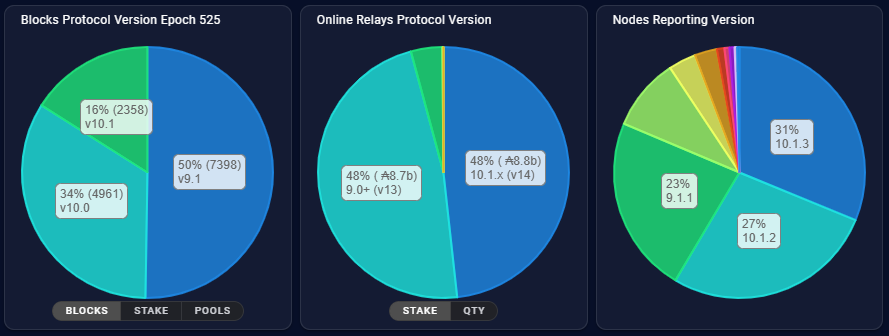
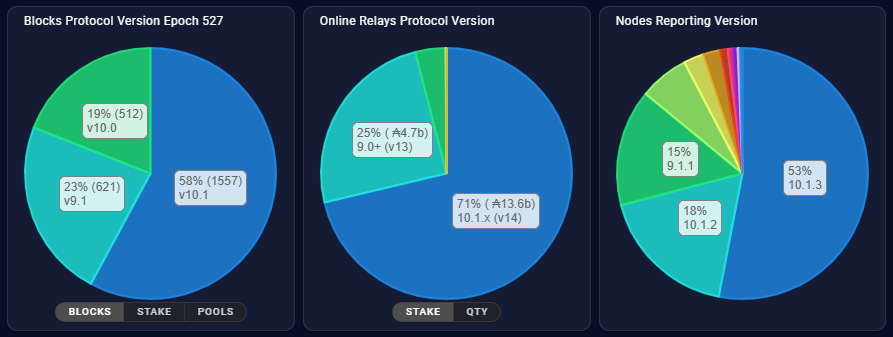
GITBOOK-128: Exchange % Readiness

diff --git a/gitbook/plomin-upgrade/chang-upgrade-2-readiness/README.md b/gitbook/plomin-upgrade/chang-upgrade-2-readiness/README.md
@@ -117,7 +117,7 @@ ICC vote total last updated: 2025-01-20 00:09:39
 
 Stake pool operators should upgrade to a supported mainnet node 10.1.4 version in readiness for the hard fork. Below we compare the prevalence of Cardano blocks created by Node versions.
 
-<figure><img src="../../.gitbook/assets/image.png" alt=""><figcaption><p>Block producing node versions, as reported by PoolTool.io</p></figcaption></figure>
+<figure><img src="../../.gitbook/assets/image (1).png" alt=""><figcaption><p>Block producing node versions, as reported by PoolTool.io</p></figcaption></figure>
 
 As of January 20th, 2025: 86% of blocks created on mainnet, within the current epoch, where created using the hotfixed 10.1.4 version (which reports as 10.2)\
 Live data can be seen via [Cardano explorers](https://explorer.cardano.org/) such as [Pooltool.io](https://pooltool.io/networkhealth)
@@ -134,9 +134,9 @@ Exchange readiness is tracked against the top exchanges by ADA liquidity (as rep
 
 For the latest info on _Exchanges by Liquidity_ please visit: [Cardanoscan](https://cardanoscan.io/changreadiness) (source) and [Cexplorer](https://cexplorer.io/hfs).
 
-<figure><img src="../../.gitbook/assets/image (13).png" alt=""><figcaption></figcaption></figure>
+<figure><img src="../../.gitbook/assets/image.png" alt=""><figcaption></figcaption></figure>
 
-As of January 15th, 2025, 37.39% of exchange liquidity has been reported as Ready for Plomin hard fork.
+As of January 20th, 2025, 61.26 % of exchange liquidity has been reported as Ready for Plomin hard fork.
 
 ***
 
